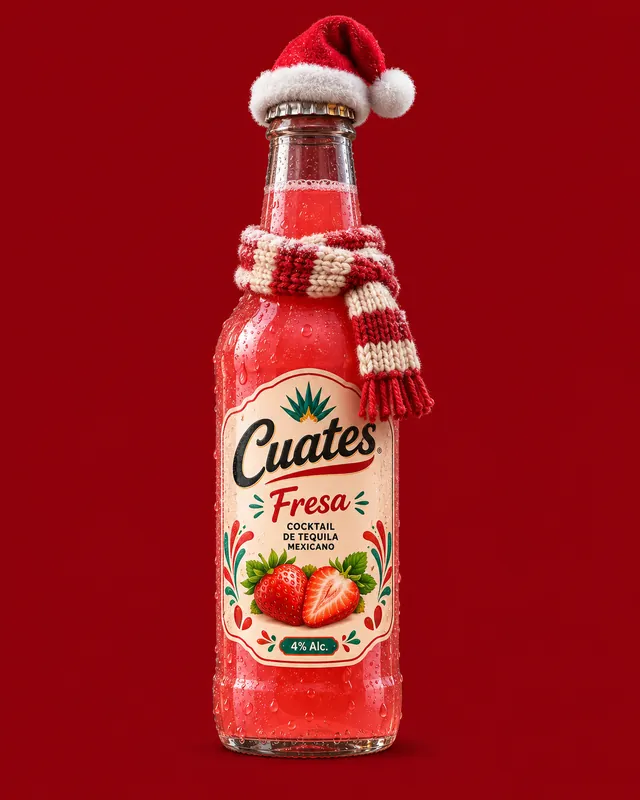
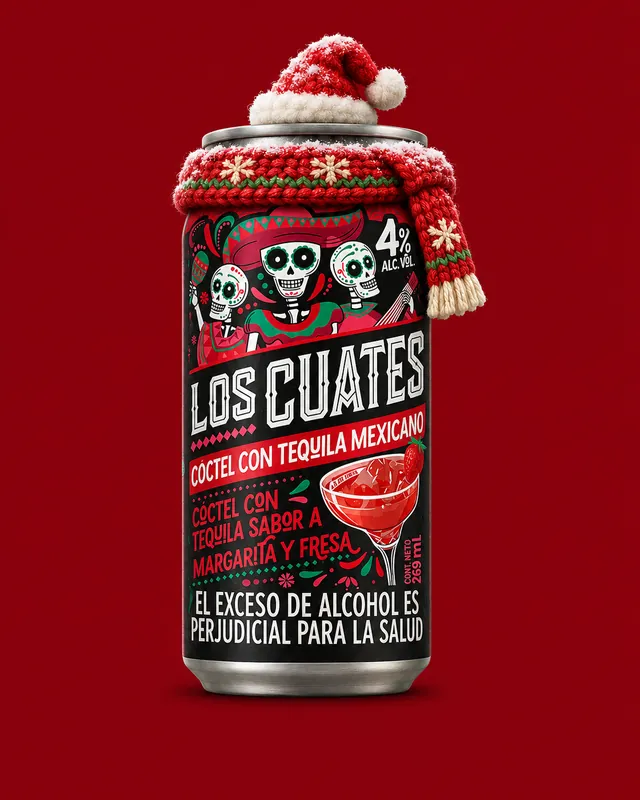
Carta de Navidad: fotos corregidas y pestanas en el orden de la carta
Fotos rehechas con lo que es cada producto de verdad: salchipapas con carne
desmechada (la criolla con papa criolla, salchichas y guacamole), Milo en
vaso de vidrio, Soda Bretana transparente con su etiqueta negra, micheladas
en jarra con la lata o botella de su cerveza detras (menos la granizada y
la coronarita), mangonada con la botella de Smirnoff de tamarindo, Cuates
de fresa en lata, Moscow Mule en jarra de cobre, Blue Long en vaso alto,
ginebra en copa de shot con la Beefeater 24 y los Desguayabator en la copa
del gin tonic con hielo. La Paleta de Dracula ya tiene foto.

La barra de categorias solo muestra las que tienen productos, asi que va en
el mismo orden que la carta (antes salia primero Mangonada, que esta activa
pero vacia). En escritorio las pestanas bajan de fila en vez de esconderse
en un scroll horizontal que no se podia mover con el raton.

diff --git a/src/components/navidad/NavidadMenu.jsx b/src/components/navidad/NavidadMenu.jsx
@@ -105,15 +105,21 @@ function ProductCard({ product, index, onOpen }) {
   );
 }
 
-function CategorySection({ category, onOpen, register }) {
+function CategorySection({ category, onOpen, register, onEmpty }) {
   const { data, isLoading } = useProductsByCategory(category.slug);
   const products = (data?.results || []).filter(
     (product) => product.is_active !== false && activeVariants(product).length
   );
   const id = sectionId(category);
   const extras = EXTRAS[category.slug];
+  const empty = !isLoading && !products.length;
 
-  if (!isLoading && !products.length) return null;
+  // Avisa a la barra: una categoría activa sin productos no tiene pestaña.
+  React.useEffect(() => {
+    onEmpty(category.slug, empty);
+  }, [category.slug, empty, onEmpty]);
+
+  if (empty) return null;
 
   return (
     <section id={id} ref={(el) => register(id, el)} className="nv-cat" aria-labelledby={`${id}-title`}>
@@ -224,6 +230,16 @@ export default function NavidadMenu() {
   }, [data]);
 
   const [open, setOpen] = React.useState(null);
+  const [empty, setEmpty] = React.useState(() => new Set());
+  const onEmpty = React.useCallback((slug, isEmpty) => {
+    setEmpty((prev) => {
+      if (prev.has(slug) === isEmpty) return prev;
+      const next = new Set(prev);
+      if (isEmpty) next.add(slug);
+      else next.delete(slug);
+      return next;
+    });
+  }, []);
   const [current, setCurrent] = React.useState(null);
   const sections = React.useRef(new Map());
   const barRef = React.useRef(null);
@@ -284,7 +300,8 @@ export default function NavidadMenu() {
 
       <nav className="nv-bar" aria-label="Categorías de la carta">
         <div ref={barRef} className="nv-bar__track">
-          {categories.map((category) => {
+          {/* Mismo orden que las secciones de abajo; sin las que no tienen productos. */}
+          {categories.filter((category) => !empty.has(category.slug)).map((category) => {
             const id = sectionId(category);
             return (
               <a
@@ -320,7 +337,7 @@ export default function NavidadMenu() {
 
       <div className="nv-menu__inner nv-menu__list">
         {categories.map((category) => (
-          <CategorySection key={category.slug} category={category} onOpen={setOpen} register={register} />
+          <CategorySection key={category.slug} category={category} onOpen={setOpen} register={register} onEmpty={onEmpty} />
         ))}
       </div>
 

diff --git a/src/components/navidad/navidad-menu.css b/src/components/navidad/navidad-menu.css
@@ -462,6 +462,19 @@ button.nv-card:focus-visible {
     top: 56px;
   }
 
+  /* En escritorio no hay dedo para arrastrar: las pestañas bajan de fila y
+     se ven todas, sin scroll horizontal escondido. */
+  .nv-bar__track {
+    flex-wrap: wrap;
+    overflow-x: visible;
+    gap: 0.45rem;
+  }
+
+  .nv-bar a {
+    min-height: 2.25rem;
+    padding: 0 0.9rem;
+  }
+
   .nv-cat {
     padding-top: 3.4rem;
   }

diff --git a/src/components/navidad/menuImages.js b/src/components/navidad/menuImages.js
@@ -65,6 +65,7 @@ export const NAVIDAD_MENU_IMAGES = new Set([
   "moscow-mule",
   "mr-tea",
   "oreo",
+  "paleta-de-dracula",
   "pecera-granizada",
   "pecera-granizado-con-alcohol",
   "poker",
